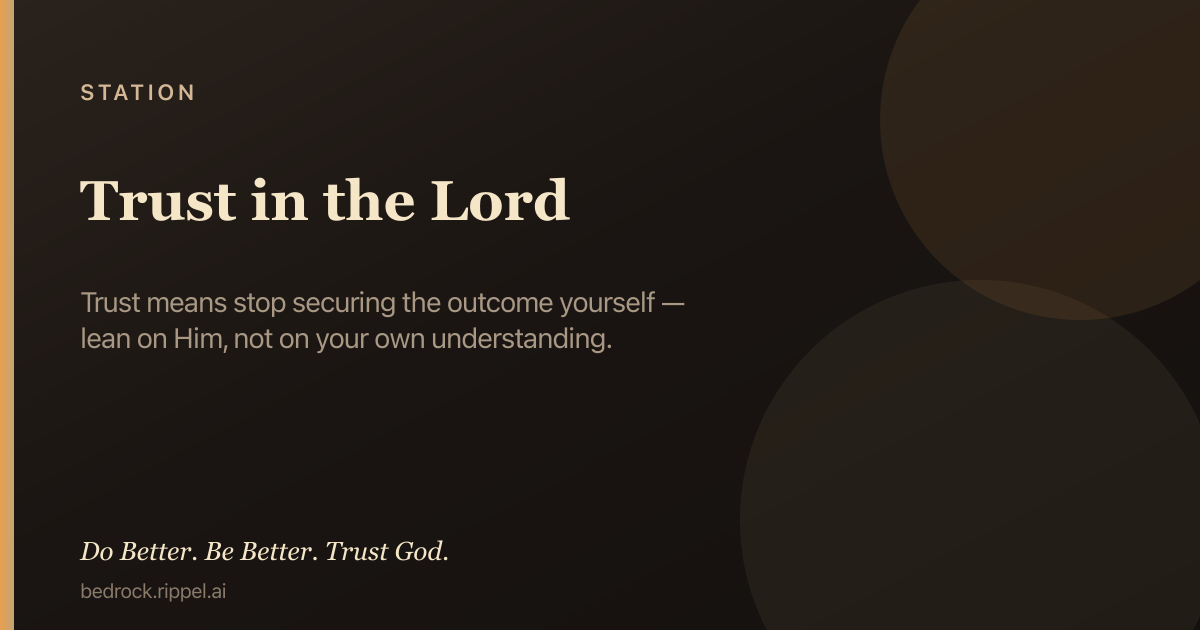
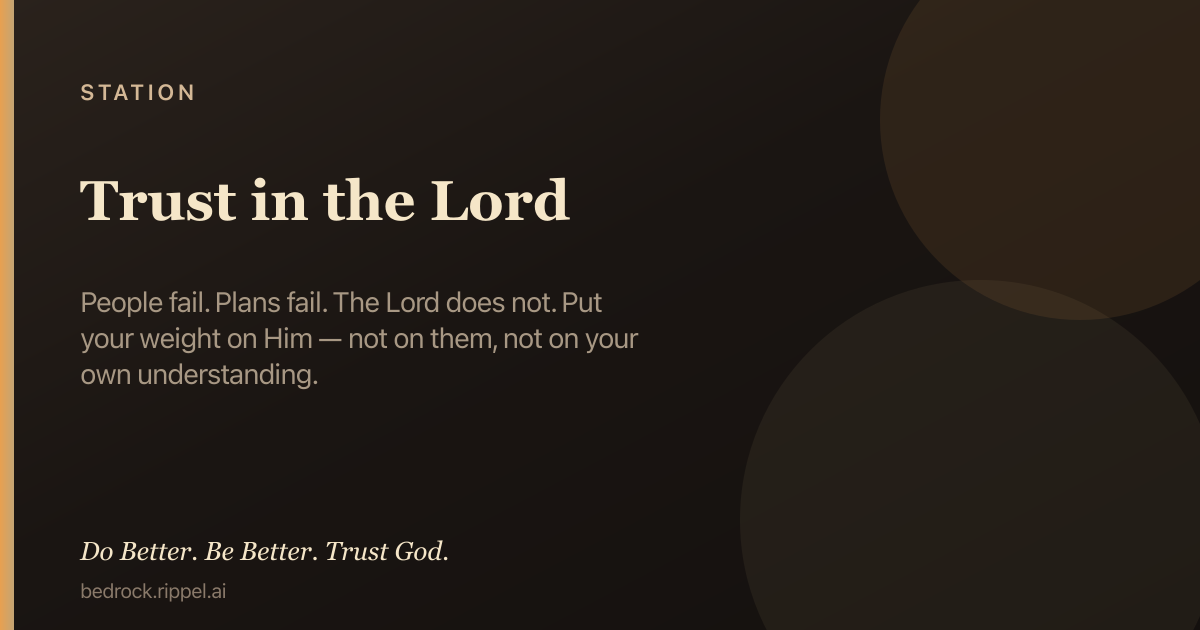
Rewrite Trust as people + Lord — not a second Control card
Trust is where you put weight when people fail: not on them, not on
your reading of them — on the Lord. Distinct holds and prayer from
Control’s grip language. Scripture: refuge in God over trust in man.

Changed region(s): [[0.0617, 0.4524, 0.555, 0.6333]]

diff --git a/public/c/trust-in-the-lord.html b/public/c/trust-in-the-lord.html
@@ -4,7 +4,7 @@
   <meta charset="utf-8" />
   <meta name="viewport" content="width=device-width, initial-scale=1" />
   <title>Trust in the Lord — Bedrock</title>
-  <meta name="description" content="Trust means stop securing the outcome yourself — lean on Him, not on your own understanding. Hold first: Under fire, prayer, then Truth. Do Better. Be…" />
+  <meta name="description" content="People fail. Plans fail. The Lord does not. Put your weight on Him — not on them, not on your own understanding. Hold first: Under fire, prayer, then…" />
   <meta name="robots" content="index, follow, max-image-preview:large, max-snippet:-1" />
   <meta name="ai-content-declaration" content="human-authored Christian field guide; hold-first: Under fire, Prayer, then Truth" />
   <link rel="canonical" href="https://bedrock.rippel.ai/c/trust-in-the-lord" />
@@ -12,7 +12,7 @@
   <meta property="og:site_name" content="Bedrock" />
   <meta property="og:type" content="article" />
   <meta property="og:title" content="Trust in the Lord — Bedrock" />
-  <meta property="og:description" content="Trust means stop securing the outcome yourself — lean on Him, not on your own understanding. Hold first: Under fire, prayer, then Truth. Do Better. Be…" />
+  <meta property="og:description" content="People fail. Plans fail. The Lord does not. Put your weight on Him — not on them, not on your own understanding. Hold first: Under fire, prayer, then…" />
   <meta property="og:url" content="https://bedrock.rippel.ai/c/trust-in-the-lord" />
   <meta property="og:image" content="https://bedrock.rippel.ai/og/c/trust-in-the-lord.v7.png" />
   <meta property="og:image:secure_url" content="https://bedrock.rippel.ai/og/c/trust-in-the-lord.v7.png" />
@@ -22,14 +22,14 @@
   <meta property="og:image:alt" content="Trust in the Lord — Bedrock" />
   <meta name="twitter:card" content="summary_large_image" />
   <meta name="twitter:title" content="Trust in the Lord — Bedrock" />
-  <meta name="twitter:description" content="Trust means stop securing the outcome yourself — lean on Him, not on your own understanding. Hold first: Under fire, prayer, then Truth. Do Better. Be…" />
+  <meta name="twitter:description" content="People fail. Plans fail. The Lord does not. Put your weight on Him — not on them, not on your own understanding. Hold first: Under fire, prayer, then…" />
   <meta name="twitter:image" content="https://bedrock.rippel.ai/og/c/trust-in-the-lord.v7.png" />
   <meta name="twitter:image:alt" content="Trust in the Lord — Bedrock" />
   <script type="application/ld+json">
-  {"@context":"https://schema.org","@type":"Article","headline":"Trust in the Lord","description":"Trust means stop securing the outcome yourself — lean on Him, not on your own understanding.","url":"https://bedrock.rippel.ai/c/trust-in-the-lord","author":{"@type":"Organization","name":"Bedrock","url":"https://bedrock.rippel.ai"},"publisher":{"@type":"Organization","name":"Bedrock","url":"https://bedrock.rippel.ai"},"image":"https://bedrock.rippel.ai/og/c/trust-in-the-lord.v7.png","inLanguage":"en","isPartOf":{"@type":"WebSite","name":"Bedrock","url":"https://bedrock.rippel.ai"},"articleSection":"First principle · Hold first","keywords":"Trust in the Lord, Bedrock, Under fire, prayer, Scripture"}
+  {"@context":"https://schema.org","@type":"Article","headline":"Trust in the Lord","description":"People fail. Plans fail. The Lord does not. Put your weight on Him — not on them, not on your own understanding.","url":"https://bedrock.rippel.ai/c/trust-in-the-lord","author":{"@type":"Organization","name":"Bedrock","url":"https://bedrock.rippel.ai"},"publisher":{"@type":"Organization","name":"Bedrock","url":"https://bedrock.rippel.ai"},"image":"https://bedrock.rippel.ai/og/c/trust-in-the-lord.v7.png","inLanguage":"en","isPartOf":{"@type":"WebSite","name":"Bedrock","url":"https://bedrock.rippel.ai"},"articleSection":"First principle · Hold first","keywords":"Trust in the Lord, Bedrock, Under fire, prayer, Scripture"}
   </script>
   <script type="application/ld+json">
-  {"@context":"https://schema.org","@type":"HowTo","name":"Use Trust in the Lord under fire (Bedrock hold-first)","description":"Open this chamber for the next right hold: Under fire first, then Prayer, then Truth when you can read.","step":[{"@type":"HowToStep","position":1,"name":"Under fire","text":"Name the grip: I am securing the outcome. Stop. Lean on Him — not on your own understanding. Take only the next step He shows. Do not demand the whole map. Release what you cannot rule. Panic is not wisdom. Presence is not control."},{"@type":"HowToStep","position":2,"name":"Prayer","text":"Father, I trust You with all my heart. I release the outcome. Direct my path. Amen."},{"@type":"HowToStep","position":3,"name":"Truth","text":"When capacity returns, read the Scripture-rooted body on this page."}],"url":"https://bedrock.rippel.ai/c/trust-in-the-lord"}
+  {"@context":"https://schema.org","@type":"HowTo","name":"Use Trust in the Lord under fire (Bedrock hold-first)","description":"Open this chamber for the next right hold: Under fire first, then Prayer, then Truth when you can read.","step":[{"@type":"HowToStep","position":1,"name":"Under fire","text":"Name it: I am making a person (or their choice) my safety. They are not God. Entrust them to the Lord. Do your part. Do not make their will your peace. Lean on Him, not on your reading of them or your own understanding."},{"@type":"HowToStep","position":2,"name":"Prayer","text":"Father, I trust You with them and with me. You are my safety. Amen."},{"@type":"HowToStep","position":3,"name":"Truth","text":"When capacity returns, read the Scripture-rooted body on this page."}],"url":"https://bedrock.rippel.ai/c/trust-in-the-lord"}
   </script>
   <script>
 (function(){
@@ -206,7 +206,7 @@
         <header class="chamber-header">
           <p class="chamber-kicker">First principle</p>
           <h1 class="chamber-title">Trust in the Lord</h1>
-          <p class="chamber-summary">Trust means stop securing the outcome yourself — lean on Him, not on your own understanding.</p>
+          <p class="chamber-summary">People fail. Plans fail. The Lord does not. Put your weight on Him — not on them, not on your own understanding.</p>
         </header>
         <nav class="nav" aria-label="Chamber actions">
           <a class="primary" href="/?c=trust-in-the-lord">Open in field guide</a>
@@ -218,48 +218,51 @@
           <section class="field-layer field-hacks" aria-labelledby="fire">
             <h2 id="fire" class="field-layer-label">Under fire</h2>
             <p class="field-layer-hint">The next right hold — walk this hour.</p>
-            <ul class="field-list field-hacks"><li>Name the grip: I am securing the outcome. Stop. Lean on Him — not on your own understanding.</li>
-<li>Take only the next step He shows. Do not demand the whole map.</li>
-<li>Release what you cannot rule. Panic is not wisdom. Presence is not control.</li></ul>
+            <ul class="field-list field-hacks"><li>Name it: I am making a person (or their choice) my safety. They are not God.</li>
+<li>Entrust them to the Lord. Do your part. Do not make their will your peace.</li>
+<li>Lean on Him, not on your reading of them or your own understanding.</li></ul>
           </section>
           <section class="field-layer field-prayers" aria-labelledby="prayer">
             <h2 id="prayer" class="field-layer-label">Prayer</h2>
             <p class="field-layer-hint">When you do not have the words.</p>
-            <ul class="field-list prayer-list"><li class="prayer-item">Father, I trust You with all my heart. I release the outcome. Direct my path. Amen.</li></ul>
+            <ul class="field-list prayer-list"><li class="prayer-item">Father, I trust You with them and with me. You are my safety. Amen.</li></ul>
           </section>
         </div>
       </div>
       <section class="field-layer field-truth-depth" aria-labelledby="truth">
         <h2 id="truth" class="field-layer-label">Truth</h2>
         <p class="field-layer-hint">When you can read deeper — Scripture-rooted steel.</p>
-        <div class="chamber-body"><p class="chamber-paragraph">Trust is not passive. It is not gripping harder with religious words. It is this: acknowledge Him in this path, take the next right step, leave the harvest to Him. Control tries to secure people, timeline, certainty — often fear, also pride, habit, or idol. Trust is the other path.</p>
+        <div class="chamber-body"><p class="chamber-paragraph">This card is about trust and other people. They can wound you, leave you, lie, or stay and still not be God. If you make them your safety, you will control them or collapse when they fail. Trust in the Lord means He is the One you lean on — with them, for them, and when you cannot read them. Not passive. Not naïve. Weight on Him.</p>
+<p class="chamber-paragraph">It is better to take refuge in the Lord than to trust in man. It is better to take refuge in the Lord than to trust in princes.</p>
+<p class="chamber-paragraph">Thus says the Lord: Cursed is the man who trusts in man and makes flesh his strength, whose heart turns away from the Lord… Blessed is the man who trusts in the Lord, whose trust is the Lord.</p>
 <p class="chamber-paragraph">Trust in the Lord with all your heart, and do not lean on your own understanding. In all your ways acknowledge Him, and He will make straight your paths.</p>
-<p class="chamber-paragraph">Do not be anxious about anything, but in everything by prayer and supplication with thanksgiving let your requests be made known to God. And the peace of God, which surpasses all understanding, will guard your hearts and your minds in Christ Jesus.</p>
-<p class="chamber-paragraph">Therefore do not be anxious about tomorrow, for tomorrow will be anxious for itself. Sufficient for the day is its own trouble.</p>
+<p class="chamber-paragraph">You keep him in perfect peace whose mind is stayed on You, because he trusts in You.</p>
 <p class="chamber-paragraph">Commit your way to the Lord; trust in Him, and He will act.</p></div>
       </section>
       <footer class="chamber-verses" aria-labelledby="scripture">
         <h3 id="scripture" class="verses-heading">Scripture</h3>
         <p class="field-layer-hint">Opens the passage on Bible Gateway.</p>
         <ul class="verses-list">
+<li><span class="verse-link verse-etched"><a class="verse-primary" href="https://www.biblegateway.com/passage/?search=Psalm+118%3A8-9&amp;version=NIV" target="_blank" rel="noopener noreferrer" title="Open Psalm 118:8–9 on Bible Gateway">Psalm 118:8–9</a></span></li>
+<li><span class="verse-link verse-etched"><a class="verse-primary" href="https://www.biblegateway.com/passage/?search=Jeremiah+17%3A5&amp;version=NIV" target="_blank" rel="noopener noreferrer" title="Open Jeremiah 17:5 on Bible Gateway">Jeremiah 17:5</a></span></li>
+<li><span class="verse-link verse-etched"><a class="verse-primary" href="https://www.biblegateway.com/passage/?search=Jeremiah+17%3A7&amp;version=NIV" target="_blank" rel="noopener noreferrer" title="Open Jeremiah 17:7 on Bible Gateway">Jeremiah 17:7</a></span></li>
 <li><span class="verse-link verse-etched"><a class="verse-primary" href="https://www.biblegateway.com/passage/?search=Proverbs+3%3A5-6&amp;version=NIV" target="_blank" rel="noopener noreferrer" title="Open Proverbs 3:5–6 on Bible Gateway">Proverbs 3:5–6</a></span></li>
-<li><span class="verse-link verse-etched"><a class="verse-primary" href="https://www.biblegateway.com/passage/?search=Philippians+4%3A6-7&amp;version=NIV" target="_blank" rel="noopener noreferrer" title="Open Philippians 4:6–7 on Bible Gateway">Philippians 4:6–7</a></span></li>
-<li><span class="verse-link verse-etched"><a class="verse-primary" href="https://www.biblegateway.com/passage/?search=Matthew+6%3A34&amp;version=NIV" target="_blank" rel="noopener noreferrer" title="Open Matthew 6:34 on Bible Gateway">Matthew 6:34</a></span></li>
-<li><span class="verse-link verse-etched"><a class="verse-primary" href="https://www.biblegateway.com/passage/?search=Psalm+37%3A5&amp;version=NIV" target="_blank" rel="noopener noreferrer" title="Open Psalm 37:5 on Bible Gateway">Psalm 37:5</a></span></li>
 <li><span class="verse-link verse-etched"><a class="verse-primary" href="https://www.biblegateway.com/passage/?search=Isaiah+26%3A3&amp;version=NIV" target="_blank" rel="noopener noreferrer" title="Open Isaiah 26:3 on Bible Gateway">Isaiah 26:3</a></span></li>
+<li><span class="verse-link verse-etched"><a class="verse-primary" href="https://www.biblegateway.com/passage/?search=Psalm+37%3A5&amp;version=NIV" target="_blank" rel="noopener noreferrer" title="Open Psalm 37:5 on Bible Gateway">Psalm 37:5</a></span></li>
+<li><span class="verse-link verse-etched"><a class="verse-primary" href="https://www.biblegateway.com/passage/?search=Philippians+4%3A6-7&amp;version=NIV" target="_blank" rel="noopener noreferrer" title="Open Philippians 4:6–7 on Bible Gateway">Philippians 4:6–7</a></span></li>
 </ul>
       </footer>
       <nav class="related-web" aria-label="Related first principles" aria-labelledby="related">
         <h3 id="related" class="verses-heading">Connected truth</h3>
         <p class="field-layer-hint">Related chambers — tap to open.</p>
         <ul class="related-list"><li><a class="related-link" href="/c/god-first">God First</a></li>
+<li><a class="related-link" href="/c/his-promises">His Promises</a></li>
+<li><a class="related-link" href="/c/do-not-fear">Do Not Fear</a></li>
+<li><a class="related-link" href="/c/fear">Fear</a></li>
 <li><a class="related-link" href="/c/control">Control</a></li>
 <li><a class="related-link" href="/c/presence-without-control">Presence Without Control</a></li>
-<li><a class="related-link" href="/c/fear">Fear</a></li>
-<li><a class="related-link" href="/c/do-not-fear">Do Not Fear</a></li>
 <li><a class="related-link" href="/c/wait-on-the-lord">Wait on the Lord</a></li>
-<li><a class="related-link" href="/c/his-promises">His Promises</a></li>
-<li><a class="related-link" href="/c/master-the-flesh">Master the Flesh</a></li>
+<li><a class="related-link" href="/c/he-is-for-you">He Is For You</a></li>
 <li><a class="related-link" href="/c/faithfulness">Faithfulness</a></li>
 <li><a class="related-link" href="/c/patience">Patience</a></li></ul>
       </nav>

diff --git a/public/c/trust-in-the-lord.md b/public/c/trust-in-the-lord.md
@@ -1,49 +1,53 @@
 # Trust in the Lord
 
-> Trust means stop securing the outcome yourself — lean on Him, not on your own understanding.
+> People fail. Plans fail. The Lord does not. Put your weight on Him — not on them, not on your own understanding.
 
 *Station · Hold first (Under fire → Prayer → Truth) · Bedrock · https://bedrock.rippel.ai/c/trust-in-the-lord*
 
 ## Under fire
 
-- Name the grip: I am securing the outcome. Stop. Lean on Him — not on your own understanding.
-- Take only the next step He shows. Do not demand the whole map.
-- Release what you cannot rule. Panic is not wisdom. Presence is not control.
+- Name it: I am making a person (or their choice) my safety. They are not God.
+- Entrust them to the Lord. Do your part. Do not make their will your peace.
+- Lean on Him, not on your reading of them or your own understanding.
 
 ## Prayer
 
-Father, I trust You with all my heart. I release the outcome. Direct my path. Amen.
+Father, I trust You with them and with me. You are my safety. Amen.
 
 ## Truth
 
-Trust is not passive. It is not gripping harder with religious words. It is this: acknowledge Him in this path, take the next right step, leave the harvest to Him. Control tries to secure people, timeline, certainty — often fear, also pride, habit, or idol. Trust is the other path.
+This card is about trust and other people. They can wound you, leave you, lie, or stay and still not be God. If you make them your safety, you will control them or collapse when they fail. Trust in the Lord means He is the One you lean on — with them, for them, and when you cannot read them. Not passive. Not naïve. Weight on Him.
+
+It is better to take refuge in the Lord than to trust in man. It is better to take refuge in the Lord than to trust in princes.
+
+Thus says the Lord: Cursed is the man who trusts in man and makes flesh his strength, whose heart turns away from the Lord… Blessed is the man who trusts in the Lord, whose trust is the Lord.
 
 Trust in the Lord with all your heart, and do not lean on your own understanding. In all your ways acknowledge Him, and He will make straight your paths.
 
-Do not be anxious about anything, but in everything by prayer and supplication with thanksgiving let your requests be made known to God. And the peace of God, which surpasses all understanding, will guard your hearts and your minds in Christ Jesus.
-
-Therefore do not be anxious about tomorrow, for tomorrow will be anxious for itself. Sufficient for the day is its own trouble.
+You keep him in perfect peace whose mind is stayed on You, because he trusts in You.
 
 Commit your way to the Lord; trust in Him, and He will act.
 
 ## Scripture
 
+- [Psalm 118:8–9](https://www.biblegateway.com/passage/?search=Psalm+118%3A8-9&version=NIV)
+- [Jeremiah 17:5](https://www.biblegateway.com/passage/?search=Jeremiah+17%3A5&version=NIV)
+- [Jeremiah 17:7](https://www.biblegateway.com/passage/?search=Jeremiah+17%3A7&version=NIV)
 - [Proverbs 3:5–6](https://www.biblegateway.com/passage/?search=Proverbs+3%3A5-6&version=NIV)
-- [Philippians 4:6–7](https://www.biblegateway.com/passage/?search=Philippians+4%3A6-7&version=NIV)
-- [Matthew 6:34](https://www.biblegateway.com/passage/?search=Matthew+6%3A34&version=NIV)
-- [Psalm 37:5](https://www.biblegateway.com/passage/?search=Psalm+37%3A5&version=NIV)
 - [Isaiah 26:3](https://www.biblegateway.com/passage/?search=Isaiah+26%3A3&version=NIV)
+- [Psalm 37:5](https://www.biblegateway.com/passage/?search=Psalm+37%3A5&version=NIV)
+- [Philippians 4:6–7](https://www.biblegateway.com/passage/?search=Philippians+4%3A6-7&version=NIV)
 
 ## Connected truth
 
 - [God First](https://bedrock.rippel.ai/c/god-first)
+- [His Promises](https://bedrock.rippel.ai/c/his-promises)
+- [Do Not Fear](https://bedrock.rippel.ai/c/do-not-fear)
+- [Fear](https://bedrock.rippel.ai/c/fear)
 - [Control](https://bedrock.rippel.ai/c/control)
 - [Presence Without Control](https://bedrock.rippel.ai/c/presence-without-control)
-- [Fear](https://bedrock.rippel.ai/c/fear)
-- [Do Not Fear](https://bedrock.rippel.ai/c/do-not-fear)
 - [Wait on the Lord](https://bedrock.rippel.ai/c/wait-on-the-lord)
-- [His Promises](https://bedrock.rippel.ai/c/his-promises)
-- [Master the Flesh](https://bedrock.rippel.ai/c/master-the-flesh)
+- [He Is For You](https://bedrock.rippel.ai/c/he-is-for-you)
 - [Faithfulness](https://bedrock.rippel.ai/c/faithfulness)
 - [Patience](https://bedrock.rippel.ai/c/patience)
 

diff --git a/public/c/README.md b/public/c/README.md
@@ -41,7 +41,7 @@ Canonical field-guide pages for crawlers and answer engines.
 - [Leave Vengeance to the Lord](https://bedrock.rippel.ai/c/leave-vengeance-to-the-lord) — Vengeance belongs to Him — and hatred has no place with love.
 - [Forgive as You Have Been Forgiven](https://bedrock.rippel.ai/c/forgive-as-you-have-been-forgiven) — Forgive one another as God in Christ forgave you.
 - [One Another in the Body](https://bedrock.rippel.ai/c/one-another-in-the-body) — Bear one another’s burdens, and so fulfill the law of Christ.
-- [Trust in the Lord](https://bedrock.rippel.ai/c/trust-in-the-lord) — Trust means stop securing the outcome yourself — lean on Him, not on your own understanding.
+- [Trust in the Lord](https://bedrock.rippel.ai/c/trust-in-the-lord) — People fail. Plans fail. The Lord does not. Put your weight on Him — not on them, not on your own understanding.
 - [Do Not Fear](https://bedrock.rippel.ai/c/do-not-fear) — God has not given you a spirit of fear, but of power, love, and a sound mind.
 - [Fear](https://bedrock.rippel.ai/c/fear) — There is no fear in love, but perfect love casts out fear. For fear has to do with punishment, and whoever fears has not been perfected in love.
 - [Loss](https://bedrock.rippel.ai/c/loss) — Grief for real loss and possible loss — He is near the brokenhearted.

diff --git a/public/og/README.md b/public/og/README.md
@@ -9,4 +9,4 @@ Version: v7 (path-versioned for social cache bust).
 - Origin (About): `/og/origin.png`
 - Sealed poem (tall): `/og/testimony-poem.png`
 
-Cards: 110 · ~6349 KB total
+Cards: 110 · ~6352 KB total
